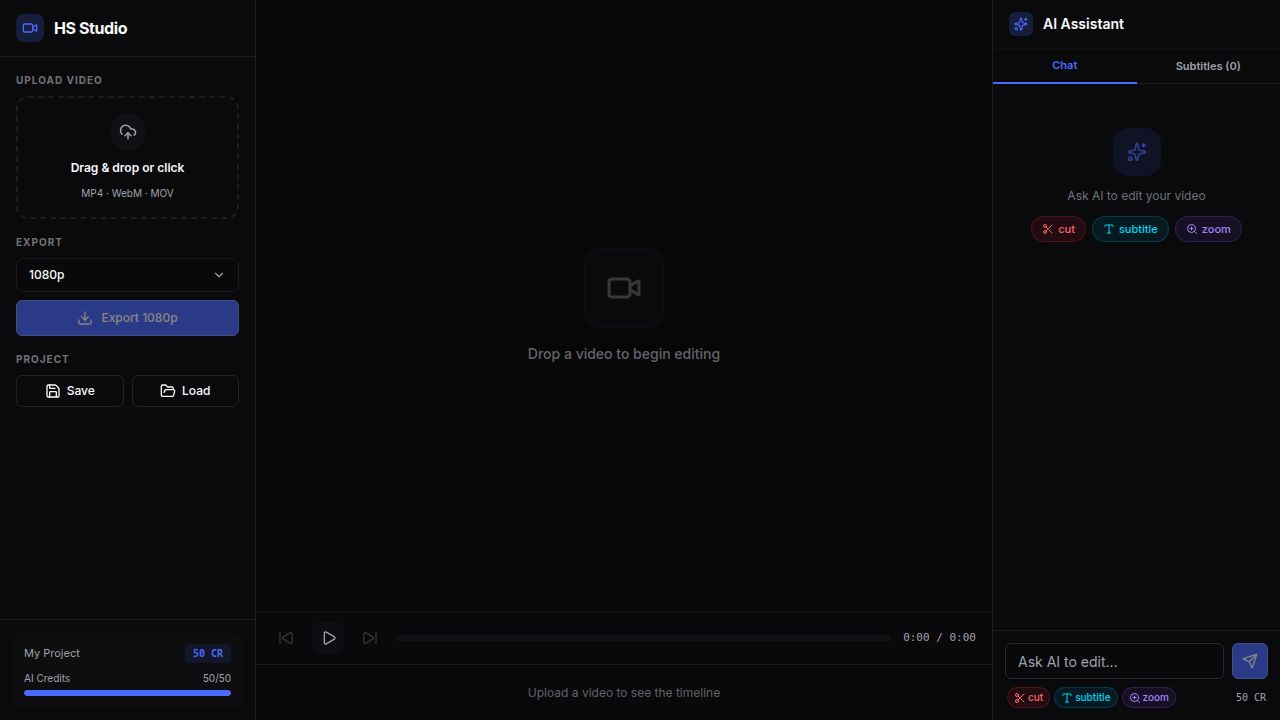
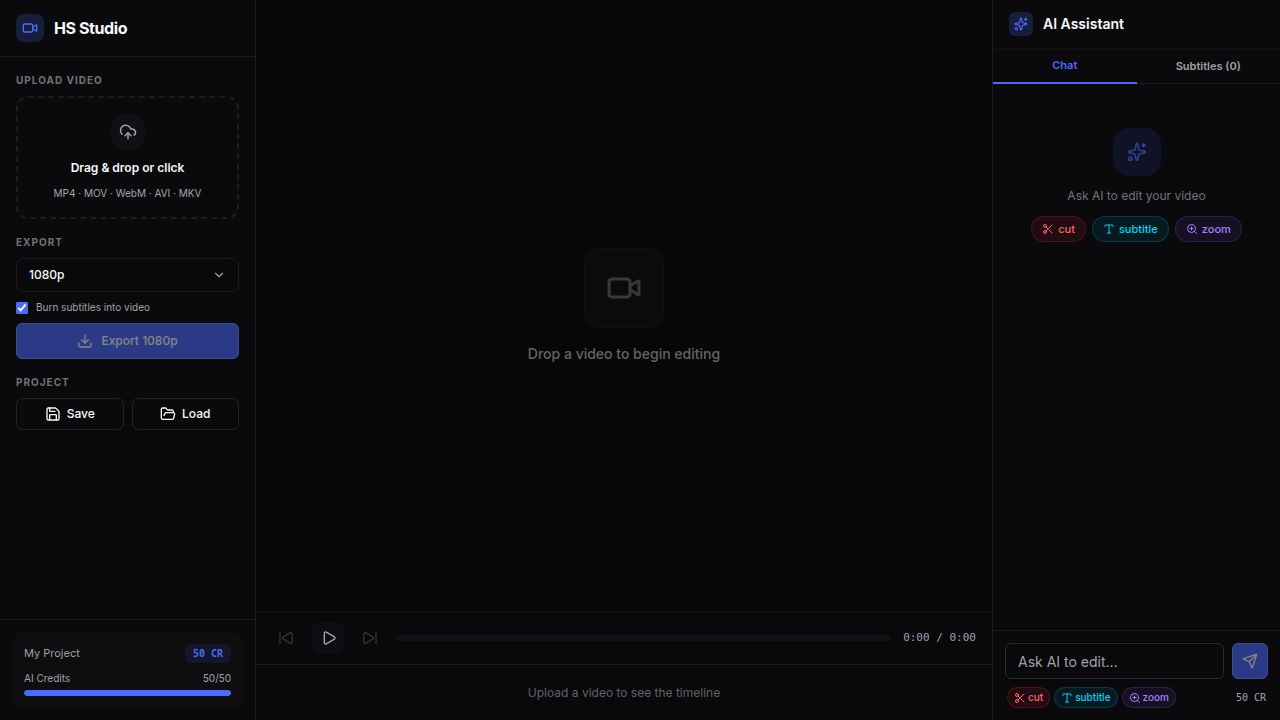
Add ability to download subtitles and improve video loading indicators
Implement subtitle generation for SRT and VTT formats, along with download functionality. Enhance the user interface by adding loading indicators for video processing and updating accepted file types.

Replit-Commit-Author: Agent
Replit-Commit-Session-Id: 833a9fe6-a883-4e62-9b79-6d051a76e70a
Replit-Commit-Checkpoint-Type: full_checkpoint
Replit-Commit-Event-Id: 84338941-6070-4b69-ae6c-bd18bc26748f
Replit-Commit-Screenshot-Url: https://storage.googleapis.com/screenshot-production-us-central1/f5bab08c-602c-4276-9466-afb87e78c337/833a9fe6-a883-4e62-9b79-6d051a76e70a/NRfUVXv
Replit-Helium-Checkpoint-Created: true

Changed region(s): [[0.0, 0.3972, 0.1875, 0.5806], [0.0312, 0.2444, 0.1562, 0.275]]

diff --git a/artifacts/hs-studio/src/App.tsx b/artifacts/hs-studio/src/App.tsx
@@ -49,6 +49,46 @@ const CREDIT_COST = 5;
 const EXPORT_RESOLUTIONS = ["720p", "1080p", "4K"] as const;
 type Resolution = (typeof EXPORT_RESOLUTIONS)[number];
 
+// ─── Subtitle file generators ───────────────────────────────────────────────────
+
+function fmtSrtTime(s: number): string {
+  const h  = Math.floor(s / 3600);
+  const m  = Math.floor((s % 3600) / 60);
+  const ss = Math.floor(s % 60);
+  const ms = Math.round((s % 1) * 1000);
+  return `${String(h).padStart(2,"0")}:${String(m).padStart(2,"0")}:${String(ss).padStart(2,"0")},${String(ms).padStart(3,"0")}`;
+}
+
+function fmtVttTime(s: number): string {
+  return fmtSrtTime(s).replace(",", ".");
+}
+
+function generateSrt(subs: Subtitle[]): string {
+  return subs
+    .filter((s) => s.text.trim())
+    .sort((a, b) => a.start - b.start)
+    .map((s, i) => `${i + 1}\n${fmtSrtTime(s.start)} --> ${fmtSrtTime(s.end)}\n${s.text.trim()}\n`)
+    .join("\n");
+}
+
+function generateVtt(subs: Subtitle[]): string {
+  const body = subs
+    .filter((s) => s.text.trim())
+    .sort((a, b) => a.start - b.start)
+    .map((s, i) => `${i + 1}\n${fmtVttTime(s.start)} --> ${fmtVttTime(s.end)}\n${s.text.trim()}\n`)
+    .join("\n");
+  return `WEBVTT\n\n${body}`;
+}
+
+function downloadText(content: string, filename: string, mime: string) {
+  const blob = new Blob([content], { type: mime });
+  const url  = URL.createObjectURL(blob);
+  const a    = document.createElement("a");
+  a.href = url; a.download = filename;
+  document.body.appendChild(a); a.click();
+  document.body.removeChild(a); URL.revokeObjectURL(url);
+}
+
 // ─── Toast ─────────────────────────────────────────────────────────────────────
 
 const Toast = memo(
@@ -139,6 +179,10 @@ function LeftPanel({
   onFileSelect,
   onExport,
   isExporting,
+  burnSubs,
+  onBurnSubsChange,
+  exportProgress,
+  isVideoLoading,
   onSave,
   onLoad,
   onProjectNameChange,
@@ -151,6 +195,10 @@ function LeftPanel({
   onFileSelect: (file: File) => void;
   onExport: (res: Resolution) => void;
   isExporting: boolean;
+  burnSubs: boolean;
+  onBurnSubsChange: (v: boolean) => void;
+  exportProgress: number | null;
+  isVideoLoading: boolean;
   onSave: () => void;
   onLoad: () => void;
   onProjectNameChange: (name: string) => void;
@@ -163,7 +211,7 @@ function LeftPanel({
   const handleDrop = (e: React.DragEvent) => {
     e.preventDefault();
     const file = e.dataTransfer.files[0];
-    if (file?.type.startsWith("video/")) onFileSelect(file);
+    if (file) onFileSelect(file);
   };
 
   const formatBytes = (b: number) =>
@@ -218,11 +266,11 @@ function LeftPanel({
             <input
               ref={fileRef}
               type="file"
-              accept="video/*"
+              accept="video/mp4,video/quicktime,video/webm,video/x-msvideo,video/x-matroska,video/*"
               className="hidden"
               onChange={(e) => {
                 const f = e.target.files?.[0];
-                if (f?.type.startsWith("video/")) onFileSelect(f);
+                if (f) onFileSelect(f);
               }}
             />
             <div
@@ -238,12 +286,14 @@ function LeftPanel({
                 )}
               />
             </div>
-            {videoUrl ? (
+            {isVideoLoading ? (
+              <p className="text-xs font-semibold text-muted-foreground animate-pulse">Loading video…</p>
+            ) : videoUrl ? (
               <p className="text-xs font-semibold text-primary">Video loaded ✓</p>
             ) : (
               <>
                 <p className="text-xs font-semibold">Drag & drop or click</p>
-                <p className="text-[10px] text-muted-foreground">MP4 · WebM · MOV</p>
+                <p className="text-[10px] text-muted-foreground">MP4 · MOV · WebM · AVI · MKV</p>
               </>
             )}
           </div>
@@ -329,6 +379,17 @@ function LeftPanel({
               </div>
             )}
           </div>
+          {/* Burn subtitles toggle */}
+          <label className="flex items-center gap-2 cursor-pointer select-none">
+            <input
+              type="checkbox"
+              checked={burnSubs}
+              onChange={(e) => onBurnSubsChange(e.target.checked)}
+              className="w-3 h-3 accent-primary"
+            />
+            <span className="text-[10px] text-muted-foreground">Burn subtitles into video</span>
+          </label>
+
           <Button
             className="w-full gap-2 text-xs h-8"
             disabled={!videoUrl || isExporting}
@@ -337,7 +398,7 @@ function LeftPanel({
             {isExporting ? (
               <>
                 <div className="w-3 h-3 border-2 border-primary-foreground/30 border-t-primary-foreground rounded-full animate-spin" />
-                Exporting…
+                {exportProgress != null ? `${exportProgress}%` : "Exporting…"}
               </>
             ) : (
               <>
@@ -345,6 +406,21 @@ function LeftPanel({
               </>
             )}
           </Button>
+
+          {/* Export progress bar */}
+          {isExporting && exportProgress != null && (
+            <div className="space-y-1">
+              <div className="h-1.5 bg-muted rounded-full overflow-hidden">
+                <div
+                  className="h-full bg-primary rounded-full transition-all duration-300"
+                  style={{ width: `${exportProgress}%` }}
+                />
+              </div>
+              <p className="text-[9px] text-muted-foreground/60 text-center">
+                FFmpeg rendering · {exportProgress}% complete
+              </p>
+            </div>
+          )}
         </section>
 
         {/* Project */}
@@ -427,6 +503,8 @@ function CenterPanel({
   onEffectUpdate,
   onSubtitleClick,
   onZoomChange,
+  onSubtitleMove,
+  onEffectMove,
   videoRef,
 }: {
   videoUrl: string | null;
@@ -445,6 +523,8 @@ function CenterPanel({
   onEffectUpdate: (effect: Effect) => void;
   onSubtitleClick: (s: Subtitle) => void;
   onZoomChange: (z: number) => void;
+  onSubtitleMove?: (id: string, s: number, e: number) => void;
+  onEffectMove?: (id: string, s: number, e: number) => void;
   videoRef: React.RefObject<HTMLVideoElement | null>;
 }) {
   const [isPlaying, setIsPlaying] = useState(false);
@@ -593,6 +673,8 @@ function CenterPanel({
         onEffectUpdate={onEffectUpdate}
         onSubtitleClick={onSubtitleClick}
         onZoomChange={onZoomChange}
+        onSubtitleMove={onSubtitleMove}
+        onEffectMove={onEffectMove}
       />
     </main>
   );
@@ -774,6 +856,8 @@ function RightPanel({
   onSubtitleDelete,
   onSubtitleAdd,
   onSeek,
+  onDownloadSrt,
+  onDownloadVtt,
 }: {
   credits: number;
   messages: ChatMessage[];
@@ -786,6 +870,8 @@ function RightPanel({
   onSubtitleDelete: (id: string) => void;
   onSubtitleAdd: (sub: Omit<Subtitle, "id">) => void;
   onSeek: (t: number) => void;
+  onDownloadSrt: () => void;
+  onDownloadVtt: () => void;
 }) {
   const scrollRef = useRef<HTMLDivElement>(null);
   const [input, setInput] = useState("");
@@ -987,6 +1073,24 @@ function RightPanel({
               </div>
             )}
           </div>
+          {/* SRT / VTT download buttons */}
+          <div className="px-2 pt-2 flex gap-1.5 shrink-0">
+            <button
+              onClick={onDownloadSrt}
+              disabled={subtitles.length === 0}
+              className="flex-1 flex items-center justify-center gap-1.5 py-1.5 rounded-lg border border-border/60 text-[10px] text-muted-foreground hover:text-foreground hover:border-primary/40 hover:bg-primary/5 transition-all disabled:opacity-40 disabled:cursor-not-allowed"
+            >
+              <FileText className="w-3 h-3" /> SRT
+            </button>
+            <button
+              onClick={onDownloadVtt}
+              disabled={subtitles.length === 0}
+              className="flex-1 flex items-center justify-center gap-1.5 py-1.5 rounded-lg border border-border/60 text-[10px] text-muted-foreground hover:text-foreground hover:border-primary/40 hover:bg-primary/5 transition-all disabled:opacity-40 disabled:cursor-not-allowed"
+            >
+              <FileText className="w-3 h-3" /> VTT
+            </button>
+          </div>
+
           {/* Add subtitle button */}
           <div className="p-2 border-t border-border/40 shrink-0">
             <button
@@ -1033,6 +1137,9 @@ export default function App() {
   const [duration, setDuration] = useState(0);
   const [isSending, setIsSending] = useState(false);
   const [isExporting, setIsExporting] = useState(false);
+  const [exportProgress, setExportProgress] = useState<number | null>(null);
+  const [burnSubs, setBurnSubs] = useState(true);
+  const [isVideoLoading, setIsVideoLoading] = useState(false);
   const [toast, setToast] = useState<string | null>(null);
 
   const effectPreviewStyle = useEffectPreview(project.effects, currentTime);
@@ -1049,6 +1156,7 @@ export default function App() {
       setVideoFile(file);
       setCurrentTime(0);
       setDuration(0);
+      setIsVideoLoading(true);
       setMetadata({
         name: file.name,
         sizeBytes: file.size,
@@ -1063,6 +1171,7 @@ export default function App() {
 
   const handleDurationLoad = useCallback(
     (d: number) => {
+      setIsVideoLoading(false);
       setDuration(d);
       if (videoRef.current) {
         const w = videoRef.current.videoWidth;
@@ -1203,25 +1312,38 @@ export default function App() {
   const handleExport = useCallback(async (res: Resolution) => {
     if (!videoFile) return;
     setIsExporting(true);
-    setToast(`Exporting ${res} — this may take a minute…`);
+    setExportProgress(0);
+
+    const jobId = crypto.randomUUID();
+
+    const sse = new EventSource(`/api/editor/export/progress/${jobId}`);
+    sse.onmessage = (ev: MessageEvent) => {
+      try {
+        const data = JSON.parse(ev.data as string) as { progress?: number; done?: boolean };
+        if (data.progress !== undefined) setExportProgress(data.progress);
+        if (data.done) sse.close();
+      } catch { /* ignore parse errors */ }
+    };
+
     try {
       const form = new FormData();
       form.append("video", videoFile);
+      form.append("jobId", jobId);
       form.append("trimStart", String(project.trim.start));
       form.append("trimEnd",   String(project.trim.end > 0 ? project.trim.end : duration));
-      form.append("subtitles", JSON.stringify(project.subtitles));
+      form.append("subtitles", burnSubs ? JSON.stringify(project.subtitles) : "[]");
+      form.append("burnSubtitles", String(burnSubs));
       form.append("resolution", res);
+      form.append("duration", String(duration));
 
-      const resp = await fetch("/api/editor/export", {
-        method: "POST",
-        body: form,
-      });
+      const resp = await fetch("/api/editor/export", { method: "POST", body: form });
 
       if (!resp.ok) {
         const body = await resp.json() as { error?: string };
         throw new Error(body.error ?? `Server error ${resp.status}`);
       }
 
+      setExportProgress(100);
       const blob = await resp.blob();
       const url  = URL.createObjectURL(blob);
       const a    = document.createElement("a");
@@ -1235,9 +1357,35 @@ export default function App() {
     } catch (err) {
       setToast(`Export failed: ${err instanceof Error ? err.message : "Unknown error"}`);
     } finally {
+      sse.close();
       setIsExporting(false);
+      setExportProgress(null);
     }
-  }, [videoFile, project.trim, project.subtitles, project.name, duration]);
+  }, [videoFile, project.trim, project.subtitles, project.name, duration, burnSubs]);
+
+  const handleSubtitleMove = useCallback(
+    (id: string, newStart: number, newEnd: number) => {
+      setProject((p) => ({
+        ...p,
+        subtitles: p.subtitles.map((s) =>
+          s.id === id ? { ...s, start: newStart, end: newEnd } : s
+        ),
+      }));
+    },
+    [setProject]
+  );
+
+  const handleEffectMove = useCallback(
+    (id: string, newStart: number, newEnd: number) => {
+      setProject((p) => ({
+        ...p,
+        effects: p.effects.map((e) =>
+          e.id === id ? { ...e, start: newStart, end: newEnd } : e
+        ),
+      }));
+    },
+    [setProject]
+  );
 
   const handleSave = useCallback(() => {
     manualSave();
@@ -1259,6 +1407,10 @@ export default function App() {
         onFileSelect={handleFileSelect}
         onExport={handleExport}
         isExporting={isExporting}
+        burnSubs={burnSubs}
+        onBurnSubsChange={setBurnSubs}
+        exportProgress={exportProgress}
+        isVideoLoading={isVideoLoading}
         onSave={handleSave}
         onLoad={handleLoad}
         onProjectNameChange={(name) => updateProject({ name })}
@@ -1288,6 +1440,8 @@ export default function App() {
           setCurrentTime(sub.start);
         }}
         onZoomChange={setZoom}
+        onSubtitleMove={handleSubtitleMove}
+        onEffectMove={handleEffectMove}
       />
       <RightPanel
         credits={project.credits}
@@ -1308,6 +1462,20 @@ export default function App() {
         onSeek={(t) => {
           setCurrentTime(t);
           if (videoRef.current) videoRef.current.currentTime = t;
+        }}
+        onDownloadSrt={() => {
+          downloadText(
+            generateSrt(project.subtitles),
+            `${project.name.replace(/[^a-z0-9_\-]/gi, "_")}-subtitles.srt`,
+            "text/plain"
+          );
+        }}
+        onDownloadVtt={() => {
+          downloadText(
+            generateVtt(project.subtitles),
+            `${project.name.replace(/[^a-z0-9_\-]/gi, "_")}-subtitles.vtt`,
+            "text/vtt"
+          );
         }}
       />
       {toast && <Toast message={toast} onDone={() => setToast(null)} />}